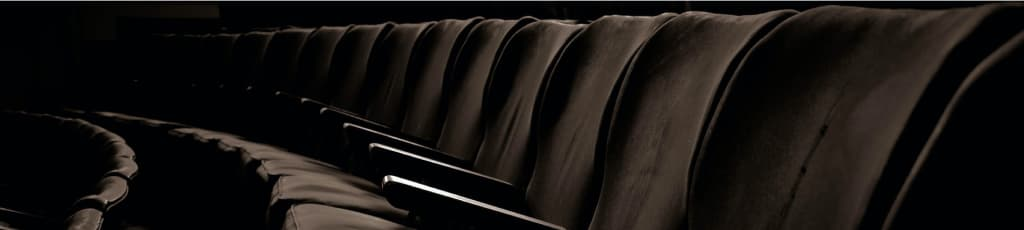
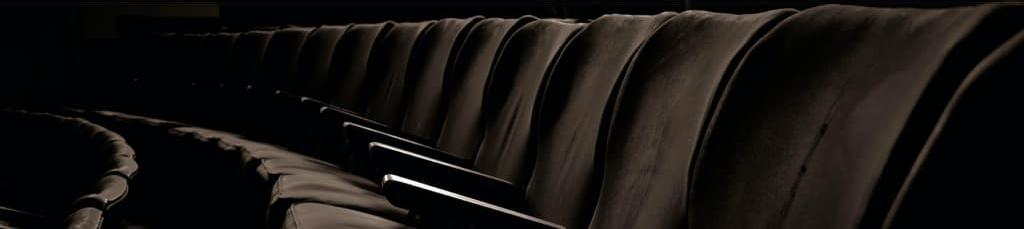
fixed header bg, add animation on header btns

diff --git a/src/sass/components/_registration.scss b/src/sass/components/_registration.scss
@@ -119,14 +119,41 @@
   display: flex;
   align-items: baseline;
 }
-.user-box__signup {
+.user-box__signup,
+.user-box__signin {
+  position: relative;
+  overflow: hidden;
   border: 1px solid $color-accent;
   padding: 5px;
-  margin-right: 30px;
   border-radius: 4px;
   &:hover {
     background: $color-accent;
   }
+  transition: All 250ms cubic-bezier(0.4, 0, 0.2, 1);
+  &:active {
+    top: 0.1em;
+    left: 0.1em;
+    box-shadow: 0 0 0 20px rgba(0, 0, 0, 0.05) inset;
+  }
+  &::before {
+    content: '';
+    height: 60px;
+    position: absolute;
+    transform: translate3d(-120%, -30px, 0) rotate3d(0, 0, 1, 45deg);
+    transition: all 1.1s cubic-bezier(0.19, 1, 0.22, 1);
+    width: 120px;
+  }
+  &:hover {
+    background-color: $color-accent-2;
+  }
+  &:hover::before {
+    background-color: $color-lightest;
+    transform: translate3d(100%, -60px, 0) rotate3d(0, 0, 1, 90deg);
+  }
+}
+
+.user-box__signup {
+  margin-right: 30px;
 }
 .site-nav__signup {
   position: relative;
@@ -154,18 +181,6 @@
   &:hover::before {
     background-color: $color-lightest;
     transform: translate3d(100%, -100px, 0) rotate3d(0, 0, 1, 90deg);
-  }
-}
-
-.user-box__signin {
-  border: 1px solid $color-accent;
-  padding: 5px;
-  border-radius: 4px;
-  &:hover {
-    background: $color-accent;
-    // border: 2px solid $color-accent;
-    // border-radius: 4px;
-    // background: 0;
   }
 }
 .site-nav__signin {
@@ -197,83 +212,83 @@
   }
 }
 
-  @media screen and (min-width: 768px) {
-    .modal {
-      position: absolute;
-      top: 50%;
-      left: 50%;
-      transform: translate(-50%, -50%);
-      width: 450px;
-    }
-
-    .backdrop.is-hidden .modal {
-      transform: translate(-50%, 150%) scale(0.75);
-    }
-  }
-  @media screen and (min-width: 1200px) {
-    .modal {
-      width: 528px;
-      margin: 0;
-    }
-  }
-  .signin-spinner {
+@media screen and (min-width: 768px) {
+  .modal {
     position: absolute;
     top: 50%;
     left: 50%;
     transform: translate(-50%, -50%);
+    width: 450px;
   }
-  .signup-spinner {
+
+  .backdrop.is-hidden .modal {
+    transform: translate(-50%, 150%) scale(0.75);
+  }
+}
+@media screen and (min-width: 1200px) {
+  .modal {
+    width: 528px;
+    margin: 0;
+  }
+}
+.signin-spinner {
+  position: absolute;
+  top: 50%;
+  left: 50%;
+  transform: translate(-50%, -50%);
+}
+.signup-spinner {
+  position: absolute;
+  top: 50%;
+  left: 50%;
+  transform: translate(-50%, -50%);
+}
+
+.signup-now {
+  display: flex;
+  justify-content: center;
+  margin-top: 35px;
+}
+.signup-now__button {
+  background: 0;
+  border: 0;
+  padding: 0;
+  color: dodgerblue;
+  cursor: pointer;
+  margin-left: 10px;
+}
+.google-signin {
+  position: relative;
+  overflow: hidden;
+  display: flex;
+  width: 100%;
+  background: 0;
+  height: 40px;
+  border: 1px solid rgba(33, 33, 33, 0.2);
+  border-radius: 4px;
+  margin-top: 4px;
+  align-items: center;
+  justify-content: center;
+  transition: border 250ms cubic-bezier(0.4, 0, 0.2, 1);
+  margin-top: 25px;
+  &:active {
+    top: 0.3em;
+    left: 0.3em;
+    box-shadow: 0 0 0 60px rgba(0, 0, 0, 0.05) inset;
+  }
+  &::before {
+    content: '';
+    height: 100px;
     position: absolute;
-    top: 50%;
-    left: 50%;
-    transform: translate(-50%, -50%);
+    transform: translate3d(-120%, -50px, 0) rotate3d(0, 0, 1, 45deg);
+    transition: all 1.1s cubic-bezier(0.19, 1, 0.22, 1);
+    width: 200px;
   }
-
-  .signup-now {
-    display: flex;
-    justify-content: center;
-    margin-top: 35px;
+  &:hover::before {
+    background-color: $color-lightest;
+    transform: translate3d(100%, -100px, 0) rotate3d(0, 0, 1, 90deg);
   }
-  .signup-now__button {
-    background: 0;
-    border: 0;
-    padding: 0;
-    color: dodgerblue;
-    cursor: pointer;
-    margin-left: 10px;
-  }
-  .google-signin {
-    position: relative;
-    overflow: hidden;
-    display: flex;
-    width: 100%;
-    background: 0;
-    height: 40px;
-    border: 1px solid rgba(33, 33, 33, 0.2);
-    border-radius: 4px;
-    margin-top: 4px;
-    align-items: center;
-    justify-content: center;
-    transition: border 250ms cubic-bezier(0.4, 0, 0.2, 1);
-    margin-top: 25px;
-    &:active {
-      top: 0.3em;
-      left: 0.3em;
-      box-shadow: 0 0 0 60px rgba(0, 0, 0, 0.05) inset;
-    }
-    &::before {
-      content: '';
-      height: 100px;
-      position: absolute;
-      transform: translate3d(-120%, -50px, 0) rotate3d(0, 0, 1, 45deg);
-      transition: all 1.1s cubic-bezier(0.19, 1, 0.22, 1);
-      width: 200px;
-    }
-    &:hover::before {
-      background-color: $color-lightest;
-      transform: translate3d(100%, -100px, 0) rotate3d(0, 0, 1, 90deg);
-    }
-
+}
 
 .signup-now {
   display: flex;

diff --git a/src/index.html b/src/index.html
@@ -93,7 +93,7 @@
           <div class="header__container container">
             <div class="header__wrapper">
               <div class="logo-wrapper">
-                <a class="logo" href="/index" aria-label="logo of filmoteka">
+                <a class="logo" href="./index" aria-label="logo of filmoteka">
                   <svg class="logo__icon" width="24" height="24">
                     <use href="./images/sprite.svg#film"></use>
                   </svg>
@@ -118,8 +118,8 @@
                   My library
                 </button>
               </nav>
-               <div class="user-box">
-              <button class="header-button user-box__signup" type="button">
+              <div class="user-box">
+                <button class="header-button user-box__signup" type="button">
                   Sign up
                 </button>
                 <button class="header-button user-box__signin" type="button">
@@ -131,7 +131,7 @@
                 >
                   Log out
                 </button>
-            </div>
+              </div>
             </div>
 
             <div class="search-container">

diff --git a/src/sass/layout/_header.scss b/src/sass/layout/_header.scss
@@ -69,7 +69,7 @@ header {
   font-weight: 500;
   font-size: 12px;
   line-height: 1.17;
-  
+
   text-transform: uppercase;
   color: $color-lightest;
   background-color: transparent;
@@ -79,9 +79,8 @@ header {
 }
 
 .home-button {
-margin-right: 30px;
+  margin-right: 30px;
 }
-
 
 .current {
   border-bottom: 3px solid $color-accent;
@@ -183,7 +182,7 @@ margin-right: 30px;
     padding-right: 75px;
   }
 
-  .header-background {
+  .header__background {
     background-image: linear-gradient(rgba(0, 0, 0, 0.56), rgba(0, 0, 0, 0.56)),
       url('/images/header/header-bg-main-@1x-tablet.jpg');
     @media screen and (min-device-pixel-ratio: 2),
@@ -223,7 +222,8 @@ margin-right: 30px;
 
 @media screen and (min-width: $bp-desktop) {
   .header__background {
-    background-image: url('/images/header/header-bg-main-@1x-desktop.jpg');
+    background-image: linear-gradient(rgba(0, 0, 0, 0.56), rgba(0, 0, 0, 0.56)),
+      url('/images/header/header-bg-main-@1x-desktop.jpg');
     @media screen and (min-device-pixel-ratio: 2),
       screen and (min-resolution: 192dpi),
       screen and (min-resolution: 2dppx) {
